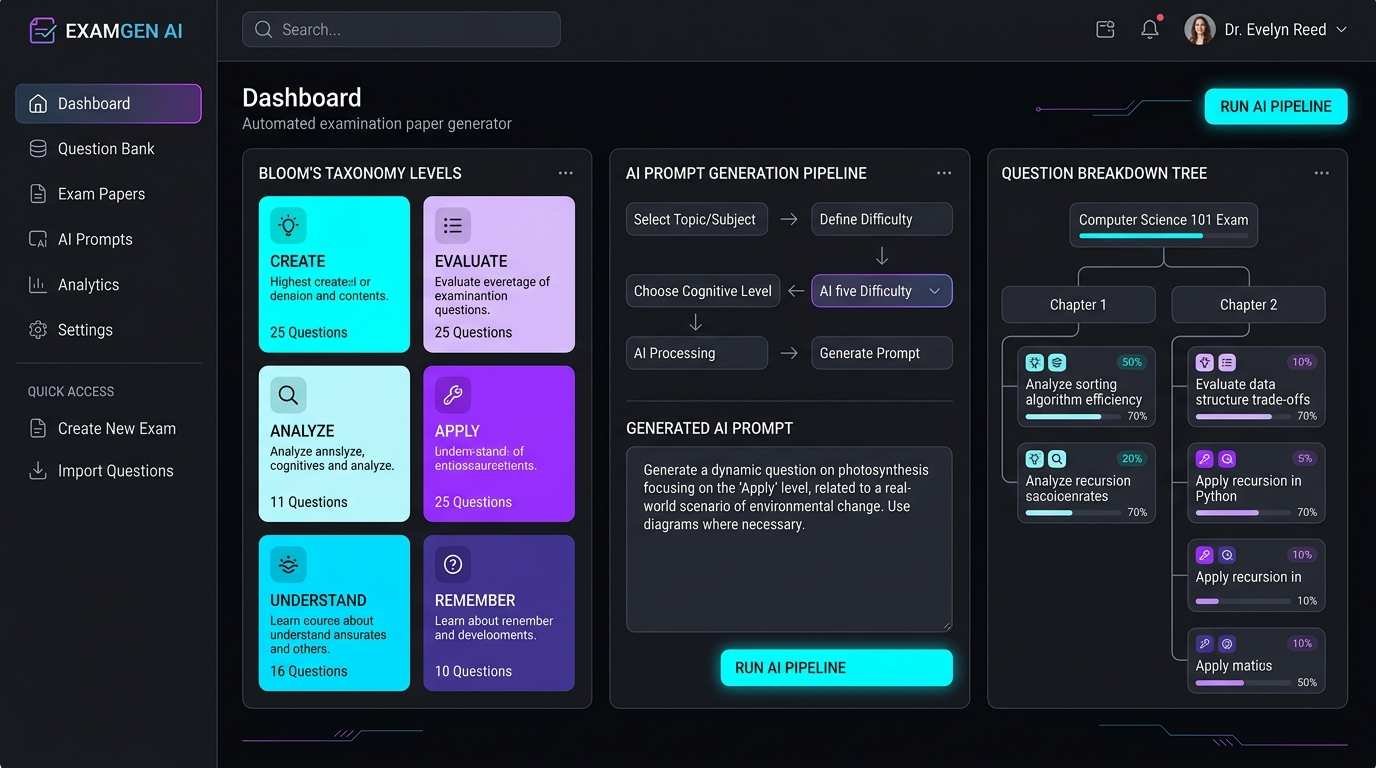
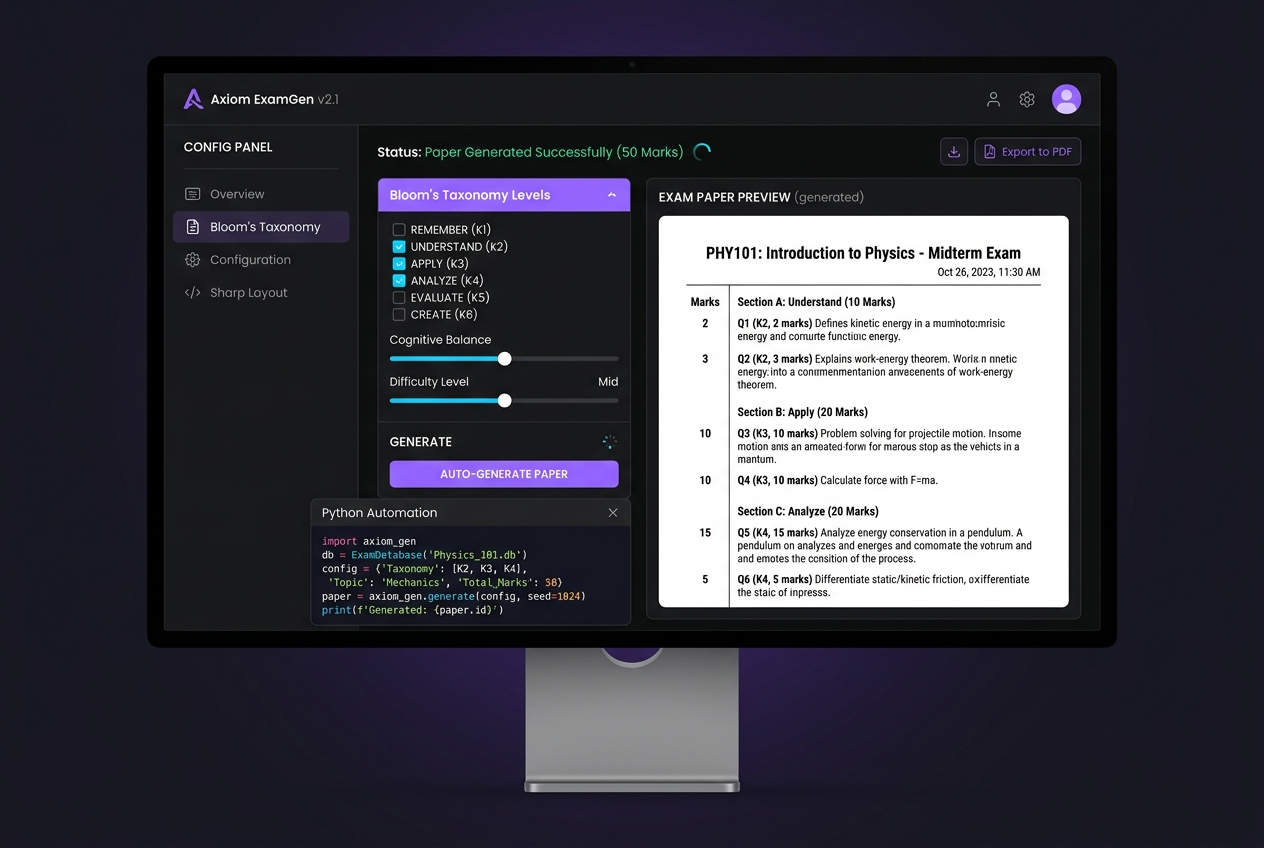
update

diff --git a/src/data/projects.js b/src/data/projects.js
@@ -1,90 +1,77 @@
-export const PROJECT_CATEGORIES = ['All', 'Full Stack', 'AI', 'React', 'Django'];
+export const PROJECT_CATEGORIES = ['All', 'Full Stack', 'AI', 'React'];
 
 export const projects = [
   {
     id: 'job-portal',
     title: 'Online Job Portal',
-    badge: 'Featured Full-Stack + AI',
+    badge: 'Featured Full-Stack',
     isFeatured: true,
     category: 'Full Stack',
-    categories: ['Full Stack', 'AI', 'React', 'Django'],
+    categories: ['Full Stack', 'React', 'Django'],
     description:
-      'Engineered a full-stack AI-powered job portal using Python, Django, React, and MySQL with user authentication, job listings, job search, and application management. Integrated AI-driven functionality to enhance job discovery and candidate-job matching, creating a more personalized recruitment experience.',
+      'Developed a full-stack job portal with user authentication, job listings, job search, and application management. Built Django REST APIs and connected the React frontend with MySQL to manage users, jobs, and applications.',
     highlights: [
       'Full-stack architecture with Python, Django, React, and MySQL',
-      'AI candidate-job matching algorithms for personalized recruitment',
-      'Complete authentication, job posting, search, and application pipelines',
+      'Django REST APIs for managing users, jobs, and applications',
+      'Complete user authentication, job posting, search, and application pipelines',
     ],
-    technologies: ['Python', 'Django', 'React', 'AI', 'MySQL'],
+    technologies: ['Python', 'Django', 'React', 'MySQL'],
     image: '/images/projects/job-portal.jpg',
-    githubUrl: 'https://github.com/Ameen2425',
-  },
-  {
-    id: 'attendance-system',
-    title: 'Facial Recognition-Based Automated Attendance System',
-    badge: 'AI & Computer Vision',
-    isFeatured: false,
-    category: 'AI',
-    categories: ['AI', 'Full Stack', 'Django'],
-    description:
-      'Created an AI-powered attendance management system with Python, Django, OpenCV, and SQLite to automate attendance recording. Implemented face detection and recognition workflows to streamline attendance recording and minimize manual data entry.',
-    highlights: [
-      'Real-time face detection and feature recognition with OpenCV',
-      'Automated attendance logging with SQLite backend',
-    ],
-    technologies: ['Python', 'Django', 'OpenCV', 'SQLite'],
-    image: '/images/projects/attendance.jpg',
-    githubUrl: 'https://github.com/Ameen2425',
+    githubUrl: 'https://github.com/Ameen2425/jobPortal',
   },
   {
     id: 'exam-generator',
     title: 'Automated Examination Paper Generator',
-    badge: 'AI & NLP',
+    badge: 'AI & Bloom\'s Taxonomy',
     isFeatured: false,
     category: 'AI',
     categories: ['AI'],
     description:
-      "Built an automated exam paper generator using Python and Bloom's Taxonomy to produce structured examination content. Structured question-generation logic around defined learning objectives to ensure balanced cognitive assessments.",
+      "Built a Python-based examination paper generator to create structured question papers from defined learning objectives. Implemented question-generation logic using Bloom's Taxonomy to organize questions according to learning levels.",
     highlights: [
       "Structured generation based on Bloom's Taxonomy cognitive levels",
-      'Objective-driven automated question balancing',
+      'Objective-driven automated question paper creation',
     ],
     technologies: ['Python', 'AI', "Bloom's Taxonomy"],
     image: '/images/projects/exam-generator.jpg',
-    githubUrl: 'https://github.com/Ameen2425',
+    githubUrl: 'https://github.com/Ameen2425/exam-paper-generator',
   },
   {
-    id: 'carbon-footprint',
-    title: 'Carbon Footprint Monitoring Platform',
-    badge: 'Interactive Analytics',
-    isFeatured: false,
-    category: 'Full Stack',
-    categories: ['Full Stack', 'React', 'Django'],
+    id: 'ameza-ecommerce',
+    title: 'AMEZA — E-Commerce Web Application',
+    badge: 'React + Redux',
+    isFeatured: true,
+    category: 'React',
+    categories: ['React'],
     description:
-      'Built a carbon footprint monitoring platform with React, Tailwind CSS, Django, and SQLite, featuring interactive dashboards. Added carbon tracking and data visualization features to present environmental impact through an intuitive interface.',
+      'Developed a responsive e-commerce application using React with product browsing, product details, and shopping cart management. Implemented reusable components, React Router, and Redux state management for navigation and cart interactions.',
     highlights: [
-      'Interactive visual dashboard for emissions analytics',
-      'Real-time carbon footprint calculation & reporting',
+      'Responsive e-commerce UI with product browsing and cart management',
+      'Redux state management for seamless cart and navigation interactions',
+      'Reusable React components with React Router for SPA navigation',
     ],
-    technologies: ['React', 'Tailwind CSS', 'Django', 'SQLite'],
-    image: '/images/projects/carbon-footprint.jpg',
-    githubUrl: 'https://github.com/Ameen2425',
+    technologies: ['React', 'JavaScript', 'HTML', 'CSS', 'Redux'],
+    image: '/images/projects/ameza.jpg',
+    githubUrl: 'https://github.com/Ameen2425/Ameza-website',
+    liveUrl: 'https://nova-x-design.vercel.app/',
   },
   {
-    id: 'adaptive-exam',
-    title: 'Adaptive Online Examination System',
-    badge: 'EdTech & Adaptive Algorithms',
+    id: 'kiranakart',
+    title: 'KiranaKart',
+    badge: 'Responsive Frontend',
     isFeatured: false,
     category: 'React',
     categories: ['React'],
     description:
-      'Created an adaptive online examination platform using React and Python with performance-based question difficulty. Applied performance-based question selection to personalize the examination workflow and accurately calibrate student proficiency.',
+      'Built a responsive grocery shopping website with product categories, product listings, offers, and shopping interactions. Used Bootstrap for responsive layouts and JavaScript event handling for interactive frontend functionality.',
     highlights: [
-      'Dynamic question difficulty adaptation based on student responses',
-      'Responsive testing interface built with React',
+      'Responsive grocery shopping site with categories and product listings',
+      'Bootstrap for adaptive layouts across devices',
+      'JavaScript event handling for interactive shopping interactions',
     ],
-    technologies: ['React', 'Python'],
-    image: '/images/projects/adaptive-exam.jpg',
-    githubUrl: 'https://github.com/Ameen2425',
+    technologies: ['HTML', 'CSS', 'JavaScript', 'Bootstrap'],
+    image: '/images/projects/kiranakart.jpg',
+    githubUrl: 'https://github.com/Ameen2425/KiranaKart_js',
+    liveUrl: 'https://ameen2425.github.io/KiranaKart_js/',
   },
 ];

diff --git a/src/data/skills.js b/src/data/skills.js
@@ -1,13 +1,15 @@
 export const technicalFoundation = [
-  { name: 'Python', category: 'Backend / AI', icon: 'Code', highlight: true },
+  { name: 'Python', category: 'Backend / Language', icon: 'Code', highlight: true },
   { name: 'Django', category: 'Backend Framework', icon: 'Server', highlight: true },
+  { name: 'Django REST Framework', category: 'Backend Framework', icon: 'Server', highlight: true },
   { name: 'React', category: 'Frontend UI', icon: 'Layers', highlight: true },
   { name: 'JavaScript (ES6)', category: 'Language', icon: 'FileCode', highlight: true },
+  { name: 'Redux', category: 'State Management', icon: 'Layers', highlight: true },
   { name: 'MySQL', category: 'Database', icon: 'Database', highlight: true },
   { name: 'SQLite', category: 'Database', icon: 'Database', highlight: false },
-  { name: 'OpenCV / AI', category: 'Computer Vision', icon: 'Cpu', highlight: true },
   { name: 'HTML5', category: 'Frontend', icon: 'Globe', highlight: false },
   { name: 'CSS3', category: 'Frontend', icon: 'Palette', highlight: false },
+  { name: 'Bootstrap', category: 'Frontend', icon: 'Palette', highlight: false },
   { name: 'Git', category: 'Version Control', icon: 'GitBranch', highlight: false },
   { name: 'GitHub', category: 'Collaboration', icon: 'GitPullRequest', highlight: false },
   { name: 'VS Code', category: 'Development Tool', icon: 'Terminal', highlight: false },
@@ -22,12 +24,12 @@ export const skillCategories = [
   {
     title: 'Frontend Technologies',
     description: 'Modern web standards for interactive and responsive user interfaces.',
-    skills: ['HTML5', 'CSS3', 'React', 'Responsive Web Design'],
+    skills: ['HTML5', 'CSS3', 'React', 'Redux', 'Bootstrap', 'Responsive Web Development'],
   },
   {
     title: 'Backend Technologies',
     description: 'Server-side application logic, RESTful workflows, and APIs.',
-    skills: ['Python', 'Django', 'Full-Stack Development'],
+    skills: ['Python', 'Django', 'Django REST Framework', 'Full-Stack Development'],
   },
   {
     title: 'Databases',
@@ -37,12 +39,12 @@ export const skillCategories = [
   {
     title: 'Core Concepts',
     description: 'Foundational computer science principles and software patterns.',
-    skills: ['Object-Oriented Programming (OOP)', 'Problem Solving', 'Data Structures & Algorithms'],
+    skills: ['Object-Oriented Programming (OOP)', 'REST APIs', 'CRUD Operations', 'Problem Solving', 'Debugging'],
   },
   {
     title: 'Tools & Platforms',
     description: 'Workflow tooling, source control, and debugging environments.',
-    skills: ['Git', 'GitHub', 'VS Code', 'Debugging'],
+    skills: ['Git', 'GitHub', 'VS Code'],
   },
 ];
 
@@ -50,21 +52,21 @@ export const beyondCodingCards = [
   {
     icon: 'Layers',
     title: 'Full-Stack Web Development',
-    description: 'Building end-to-end web applications by integrating Python & Django backends with modern React frontend interfaces.',
+    description: 'Building end-to-end web applications by integrating Python & Django backends with REST APIs and modern React frontend interfaces, including database-driven functionality.',
+  },
+  {
+    icon: 'Server',
+    title: 'Backend & REST API Engineering',
+    description: 'Architecting robust database schemas with MySQL & SQLite, implementing authentication, CRUD operations, business logic, and scalable Django REST Framework APIs.',
   },
   {
     icon: 'Bot',
     title: 'AI & Automation',
-    description: 'Engineering AI-driven solutions including facial recognition computer vision systems, candidate matching, and automated paper generators.',
-  },
-  {
-    icon: 'Server',
-    title: 'Backend Engineering',
-    description: 'Architecting robust database schemas with MySQL & SQLite, implementing authentication, business logic, and reliable APIs.',
+    description: 'Engineering AI-driven solutions including automated examination paper generators using Bloom\'s Taxonomy and intelligent application logic.',
   },
   {
     icon: 'Smartphone',
     title: 'Responsive UI & Usability',
-    description: 'Designing intuitive, high-performance web layouts that function smoothly across mobile, tablet, and desktop environments.',
+    description: 'Designing intuitive, high-performance web layouts using React, Redux, Bootstrap, and CSS that function smoothly across mobile, tablet, and desktop environments.',
   },
 ];

diff --git a/src/components/hero/Hero.jsx b/src/components/hero/Hero.jsx
@@ -313,7 +313,7 @@ const itemVariants = {
 };
 
 export default function Hero() {
-  const coreTech = ['Python', 'Django', 'React', 'AI', 'MySQL'];
+  const coreTech = ['Python', 'Django', 'React', 'Redux', 'MySQL'];
 
   return (
     <HeroSection id="home">
@@ -338,7 +338,7 @@ export default function Hero() {
 
           <motion.div variants={itemVariants}>
             <Description>
-              Computer Science graduate with a strong foundation in Python, JavaScript, HTML, CSS, React, and MySQL. Passionate about building scalable web applications and AI-powered solutions.
+              Computer Science graduate seeking a Full-Stack Python Developer role. Skilled in backend development, REST API development, database management, authentication, and frontend integration using Django and React.
             </Description>
           </motion.div>
 
@@ -407,7 +407,7 @@ export default function Hero() {
               transition={{ delay: 0.6, duration: 0.4 }}
             >
               <Sparkles size={13} color="#A78BFA" />
-              <BadgeText>Full-Stack + AI Specialist</BadgeText>
+              <BadgeText>Full-Stack Python Developer</BadgeText>
             </FloatingCardBadge>
           </ImageCardContainer>
         </ImageCol>

diff --git a/src/components/about/About.jsx b/src/components/about/About.jsx
@@ -215,7 +215,7 @@ const cardVariants = {
 
 export default function About() {
   const stats = [
-    { number: '5', label: 'Completed Projects', icon: Code },
+    { number: '4', label: 'Completed Projects', icon: Code },
     { number: '2', label: 'Industry Internships', icon: Briefcase },
     { number: '8.0', label: 'B.Tech CGPA', icon: GraduationCap },
     { number: '4+', label: 'Verified Credentials', icon: Award },
@@ -295,7 +295,7 @@ export default function About() {
           transition={{ duration: 0.5 }}
         >
           <QuoteText>
-            "I enjoy turning ideas into practical, scalable, and user-friendly applications using Python, Django, React, and AI."
+            "I enjoy building scalable web applications using Python, Django, and React — combining robust backend APIs with clean, responsive frontend interfaces."
           </QuoteText>
         </QuoteBanner>
       </AboutContainer>

diff --git a/src/components/layout/Footer.jsx b/src/components/layout/Footer.jsx
@@ -6,7 +6,7 @@ import { ArrowUp } from 'lucide-react';
 const FooterWrapper = styled('footer', {
   backgroundColor: '$bgSecondary',
   borderTop: '1px solid $border',
-  pt: '$14',
+  pt: '$24',
   pb: '$10',
   px: '$4',
   mt: 'auto',
@@ -23,7 +23,7 @@ const FooterWrapper = styled('footer', {
   },
 
   '@mobile': {
-    pt: '$10',
+    pt: '$16',
     pb: '$6',
     px: '$3',
   },
@@ -180,7 +180,7 @@ export default function Footer() {
               <span>{BRAND.logo}</span>
             </Logo>
             <Subtitle>
-              Full-Stack Python Developer specializing in building scalable web applications and AI-driven solutions.
+              Full-Stack Python Developer building scalable web applications with Django REST APIs and React frontends.
             </Subtitle>
             <TechPill>{BRAND.tagline}</TechPill>
           </BrandBlock>

diff --git a/src/components/projects/ProjectCard.jsx b/src/components/projects/ProjectCard.jsx
@@ -311,6 +311,18 @@ export default function ProjectCard({ project, isFeatured = false }) {
             View on GitHub
             <ArrowUpRight size={14} className="arrow" />
           </GitHubLink>
+          {project.liveUrl && (
+            <GitHubLink
+              href={project.liveUrl}
+              target="_blank"
+              rel="noopener noreferrer"
+              aria-label={`View ${project.title} live demo`}
+              style={{ marginLeft: '8px' }}
+            >
+              Live Demo
+              <ArrowUpRight size={14} className="arrow" />
+            </GitHubLink>
+          )}
         </CardActions>
       </ContentWrapper>
     </Card>

diff --git a/src/styles/theme.js b/src/styles/theme.js
@@ -5,7 +5,7 @@ export const BRAND = {
   shortName: 'Ameen',
   logo: 'Ameen.',
   title: 'Full-Stack Python Developer',
-  tagline: 'Python • Django • React • AI • MySQL',
+  tagline: 'Python • Django • React • Redux • MySQL',
   email: 'abdulameen200@gmail.com',
   phone: '+91 7993959639',
   github: 'https://github.com/Ameen2425',
